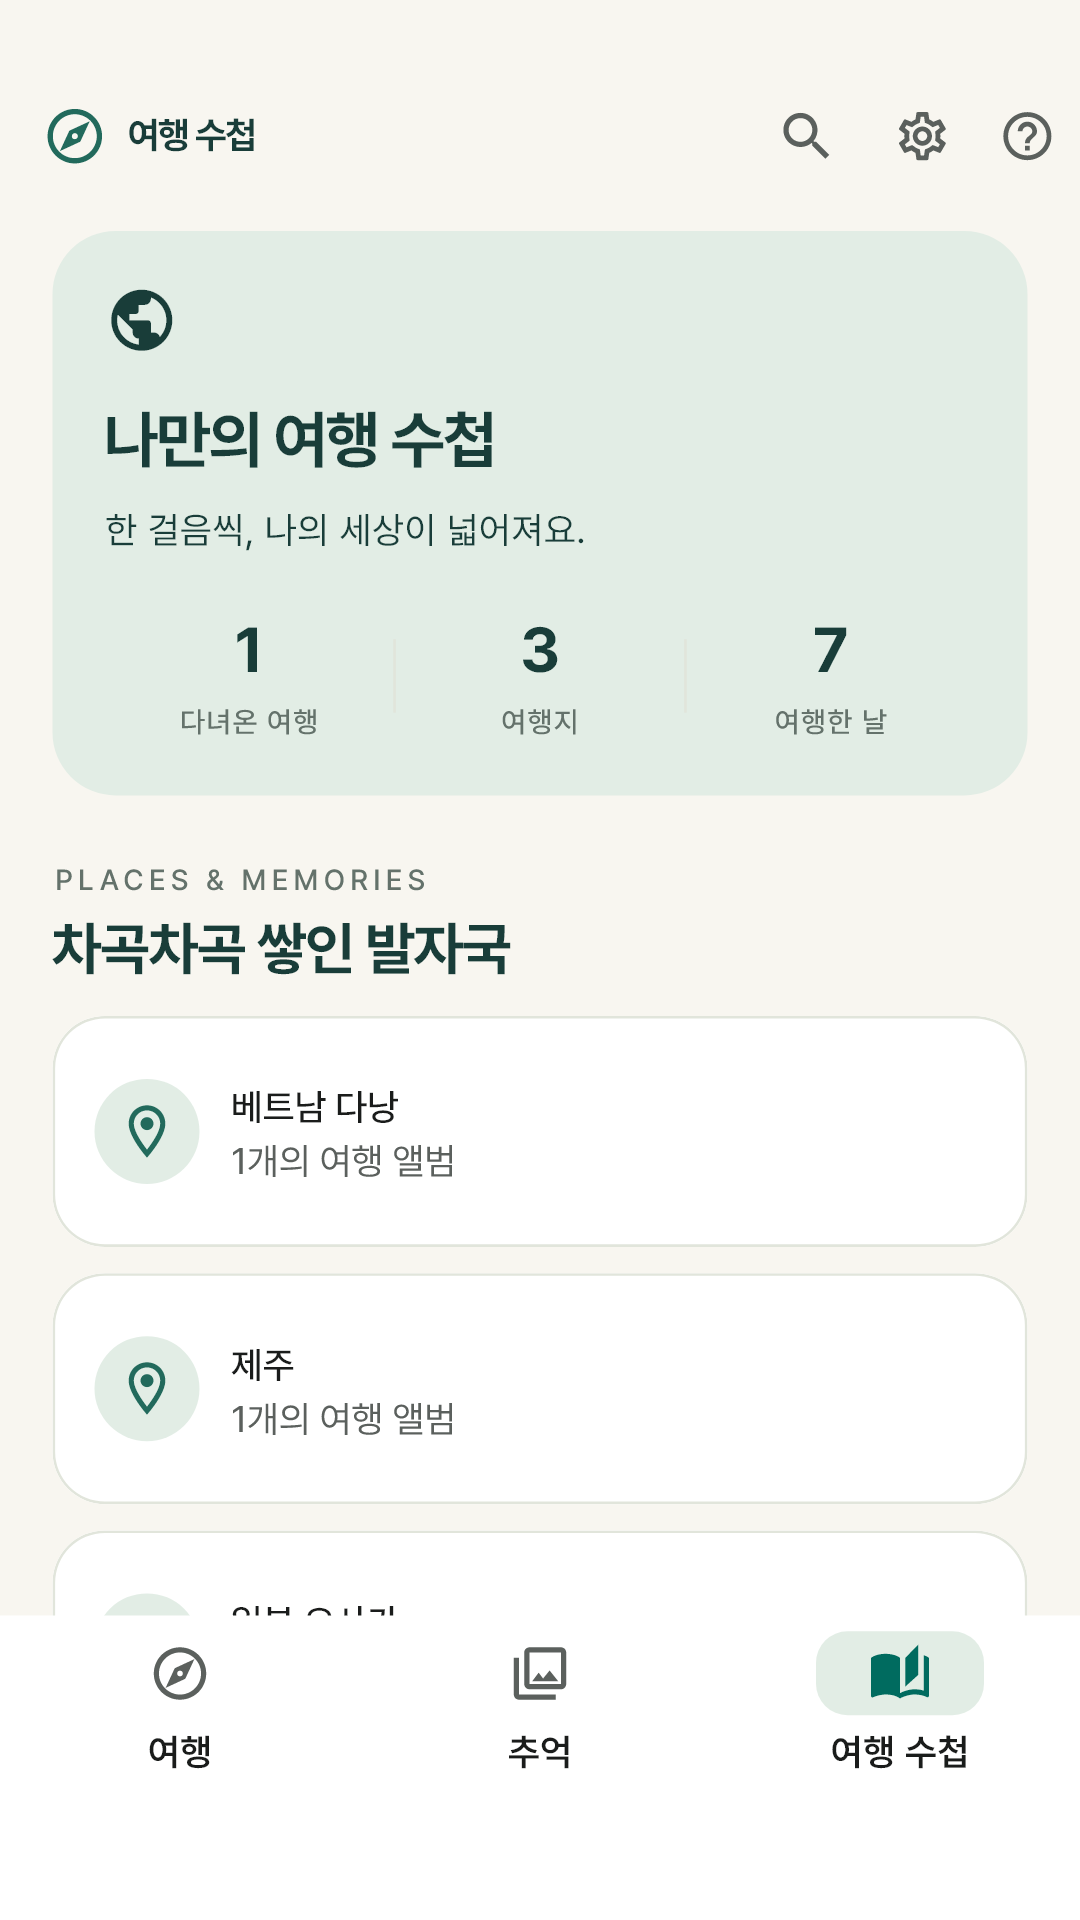
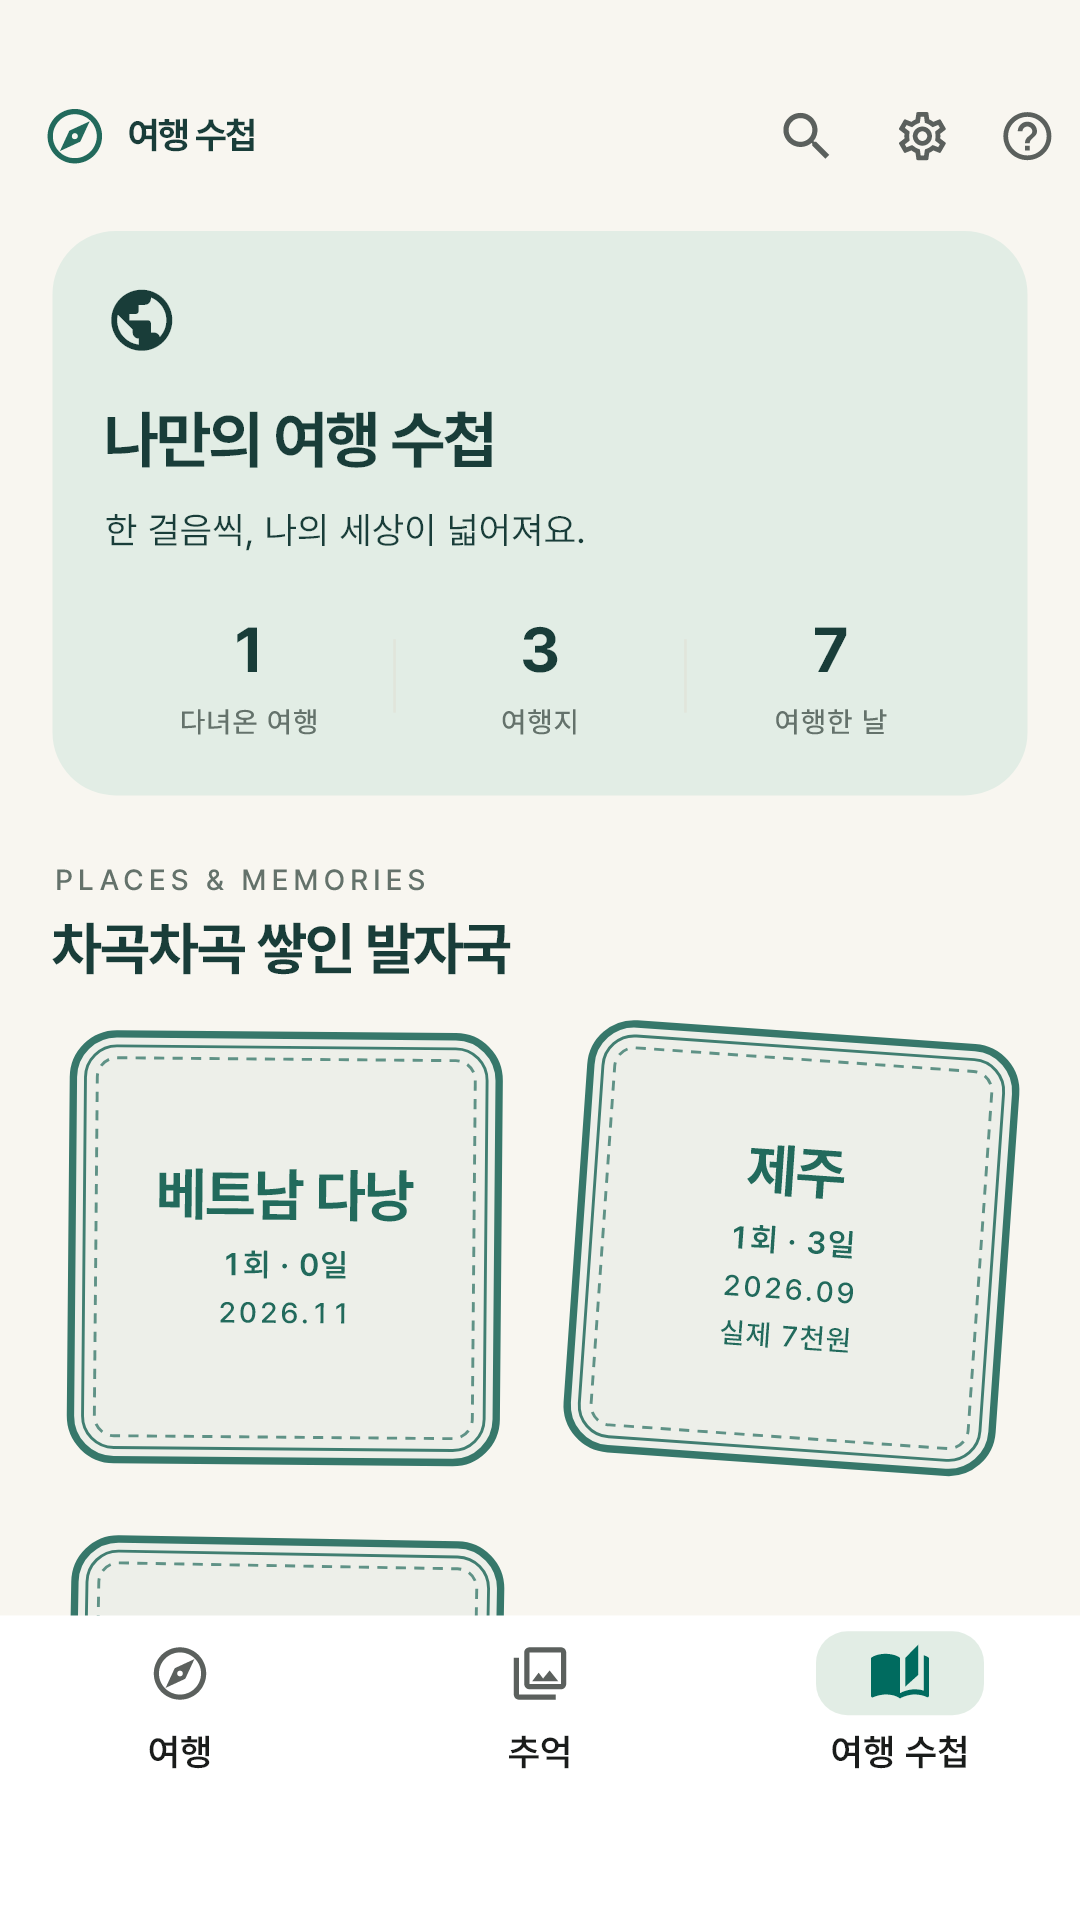
여행 기록: 새 기능 소개·방침 갱신, 스크린샷 02·03·04·05·09 교체

Changed region(s): [[0.0611, 0.5312, 0.4889, 0.8438], [0.5194, 0.5312, 0.9472, 0.7812], [0.6722, 0.5938, 0.7944, 0.7188]]

diff --git a/travel_log/index.html b/travel_log/index.html
@@ -73,26 +73,33 @@
 <h2>이런 걸 할 수 있어요</h2>
 <ul>
   <li><strong>여행이 하나의 단위예요</strong> — 홈에 여행 카드가 쌓입니다. 여행지·기간과 함께
-    예정 · 여행 중 · 다녀옴 상태가 붙고, 대표 사진과 기록 수·일정 수가 같이 보여요.
-    기간을 아직 안 정했으면 비워 둬도 됩니다.</li>
+    예정 · 여행 중 · 다녀옴 상태가 붙고, 대표 사진과 떠나기까지 남은 날(D-30)이나 여행 며칠째인지,
+    기록·일정 수, 실제 쓴 돈이 같이 보여요. 기간을 아직 안 정했으면 비워 둬도 됩니다.</li>
   <li><strong>기록</strong> — 맛집·카페·관광지·숙소·쇼핑·체험 중에서 종류를 고르고 이름만 적으면
     끝이에요. 주소·들른 날·별점·메모는 아는 만큼만. 목록 위 칩을 누르면 "맛집만", "숙소만"
-    걸러 볼 수 있습니다.</li>
+    걸러 볼 수 있습니다. 주소를 누르면 지도 앱에서 바로 열리고, 길게 누르면 복사돼요.</li>
   <li><strong>사진은 기록당 10장까지</strong> — 기록을 작성하면서 바로 찍거나 여러 장을 한 번에 골라 담아요.
+    들른 날을 비워 두면 담은 사진의 촬영 날짜로 채워 줘요(사진에서는 날짜만 읽어요).
     앱이 쓰는 건 사본이라 갤러리 원본은 손대지 않고, 사본에서는 촬영 위치 같은 정보를 떼어 냅니다.
     전체 사진 라이브러리 권한을 요청하지 않고 고른 사진만 받아요.</li>
   <li><strong>일정 — 떠나기 전에 하루씩 그려요</strong> — 여행 기간의 모든 날이 "1일차 · 10.03 (토)" 칩으로
     있어요. 날을 고르면 24시간 고리 시간표에 시각이 있는 일정이 분류색 조각으로 놓이고, 조각마다 할 일
     제목과 시각이 이름표로 붙어요. 위에서 아래로 흐르는 타임라인으로도 바꿔 볼 수 있어요. 시작·끝 시각, 분류, 예상 금액·실제 쓴 금액을 적고 기록과 연결해 두면 어디였는지
-    같이 보입니다.</li>
+    같이 보입니다. 시작 시각이 있는 일정에는 정시·15분·30분·1시간 전 알림을 걸 수 있고, 알림을 누르면
+    그날 일정이 바로 열려요.</li>
   <li><strong>일정표 보내기</strong> — 일행에게 계획을 보낼 땐 모든 날의 일정을 글로, 일정이 있는 날은
     하루 한 장 시간표 그림으로 함께 보내요. 앱이 없어도 볼 수 있고 금액은 빠집니다.</li>
   <li><strong>검색</strong> — 여행 이름·여행지, 기록의 이름·주소·메모, 일정의 할 일·메모를 한 번에
     찾아요. "오사카 라멘"처럼 낱말을 여러 개 적어도 됩니다.</li>
   <li><strong>예산</strong> — 여행마다 통화를 하나 고르고(원·엔·달러 등 13가지) 그 단위 그대로
-    적어요. 환산하지 않으니 인터넷이 필요 없습니다. 예산 대비 실제 지출을 막대로 보여주고,
-    분류별·날짜별 합계가 따라옵니다. 금액 칸에는 적는 대로 천 단위 쉼표가 붙고, 옵션에서
+    적어요. 환산하지 않으니 인터넷이 필요 없습니다. 쓴 돈과 남은 예산을 막대로 견주고, 분류별 지출은
+    도넛 차트로, 날짜별 지출은 막대로 보여 줘요. 분류마다 예상 금액이 같이 적혀 계획보다 얼마나 더 썼는지
+    보이고, 떠나기 전이나 여행 중에는 남은 예산을 남은 날로 나눠 하루에 쓸 수 있는 금액을 알려 줘요.
+    계획에 없던 지출은 [지출 적기]로 바로 적고, 경비는 CSV 파일로 내보내 엑셀·구글 시트에서 정산해요.
+    금액 칸에는 적는 대로 천 단위 쉼표가 붙고, 옵션에서
     1원·천원·만원 단위를 골라 보고 적을 수 있어요(저장은 늘 1원 단위).</li>
+  <li><strong>준비물 체크리스트</strong> — 여행마다 [준비] 탭에 떠나기 전 챙길 것을 적고 하나씩 체크해요.
+    여권·환전·충전기처럼 흔한 준비물 12가지를 한 번에 담을 수도 있어요.</li>
   <li><strong>공유</strong> — 여행 전체로, 또는 "맛집만" 골라 글과 사진을 함께 보냅니다.
     일반 공유는 금액을 빼고, 앱 파일로 보내면 사진과 기록을 함께 담아 갑니다. 받는 쪽에서
     파일을 누르면 앱이 열려요.</li>
@@ -102,7 +109,8 @@
 
 <div class="box"><strong>사진이 없어도 예쁜 여행 앨범</strong><br>
 바다·산·도시·숲·노을 다섯 가지 그림 표지를 골라요. 추억 탭에서는 모든 여행의 사진과 이야기를
-함께 보고, 여행 수첩에는 여행지와 여행한 날이 차곡차곡 쌓여요. 검색과 상태 필터로 다시 찾기도 쉬워요.</div>
+함께 보고, 여행 수첩에는 여행지마다 도장이 찍혀 몇 번 갔는지·며칠 여행했는지가 차곡차곡 쌓여요.
+검색과 상태 필터로 다시 찾기도 쉬워요.</div>
 
 <h2>앱 안에서는 이렇게 보여요</h2>
 <!-- 스크린샷은 store/screenshots/의 사본이다. 화면이 바뀌면 골든 테스트로 다시 만들어
@@ -111,15 +119,15 @@
 <section class="shots">
 <figure><img src="shots/01-home.png" alt="예정·여행 중·다녀옴 상태가 붙은 여행 카드 목록" loading="lazy"><figcaption>지금 무엇이 진행 중인지 한눈에.</figcaption></figure>
 <figure><img src="shots/02-places.png" alt="종류 칩으로 거르는 맛집·관광지·숙소 기록 목록" loading="lazy"><figcaption>맛집만, 숙소만 걸러 보기.</figcaption></figure>
-<figure><img src="shots/03-place.png" alt="사진 줄과 별점·주소·메모가 있는 기록 상세 화면" loading="lazy"><figcaption>사진과 함께 남기는 한마디.</figcaption></figure>
-<figure><img src="shots/04-schedule.png" alt="하루를 24시간 고리로 그린 시간표와 조각마다 제목 이름표가 붙은 그날의 일정 목록" loading="lazy"><figcaption>하루를 고리 시간표로, 일행에게는 그림으로.</figcaption></figure>
-<figure><img src="shots/05-budget.png" alt="예산 대비 지출과 분류별·날짜별 합계" loading="lazy"><figcaption>계획한 돈과 실제로 쓴 돈.</figcaption></figure>
+<figure><img src="shots/03-place.png" alt="사진 줄과 별점, 누르면 지도 앱으로 여는 주소, 메모가 있는 기록 상세 화면" loading="lazy"><figcaption>사진과 함께 남기는 한마디.</figcaption></figure>
+<figure><img src="shots/04-schedule.png" alt="날짜 칩과 하루를 24시간 고리로 그린 시간표, 조각마다 붙은 할 일 이름표" loading="lazy"><figcaption>하루를 고리 시간표로, 일행에게는 그림으로.</figcaption></figure>
+<figure><img src="shots/05-budget.png" alt="분류별 실제 지출을 나눈 도넛 차트와 분류마다 예상 대비 실제 금액" loading="lazy"><figcaption>계획한 돈과 실제로 쓴 돈.</figcaption></figure>
 <figure><img src="shots/06-share.png" alt="여행 전체 또는 종류를 골라 글과 사진이나 앱 파일로 보내는 공유 시트" loading="lazy"><figcaption>사진도 함께 친구에게.</figcaption></figure>
 <figure><img src="shots/07-home-dark.png" alt="어두운 화면의 여행 목록" loading="lazy"><figcaption>어두운 화면도 됩니다.</figcaption></figure>
 </section>
 <section class="shots">
 <figure><img src="shots/08-memories.png" alt="여행의 사진과 이야기를 모아 보는 추억 탭" loading="lazy"><figcaption>오래 기억하고 싶은 순간들.</figcaption></figure>
-<figure><img src="shots/09-passport.png" alt="여행지와 여행한 날을 정리한 여행 수첩" loading="lazy"><figcaption>차곡차곡 쌓인 나만의 발자국.</figcaption></figure>
+<figure><img src="shots/09-passport.png" alt="다녀온 여행·여행지·여행한 날과 여행지마다 찍힌 도장을 모은 여행 수첩" loading="lazy"><figcaption>여행지마다 찍는 나만의 도장.</figcaption></figure>
 </section>
 <p>화면에 보이는 여행·가게 이름과 금액은 기능을 설명하기 위한 예시이고, 사진 자리에 있는 것은
 그림입니다.</p>

diff --git a/travel_log/privacy.html b/travel_log/privacy.html
@@ -2,10 +2,11 @@
 <html lang="ko"><head><meta charset="utf-8"><meta name="viewport" content="width=device-width,initial-scale=1"><title>앱이소 여행 기록 개인정보처리방침</title>
 <style>body{font:16px/1.8 system-ui,sans-serif;max-width:720px;margin:auto;padding:40px 24px;color:#20312b;background:#fafaf8}h1{font-size:28px}h2{font-size:20px;margin-top:32px}a{color:#00796b}</style></head><body>
 <h1>앱이소 여행 기록 개인정보처리방침</h1><p>시행일: 2026년 9월 18일</p>
-<h2>1. 기기에 저장하는 정보</h2><p>사용자가 입력한 여행 이름, 여행지, 기간, 통화, 예산, 메모와 여행 안의 기록(장소 종류·이름·주소·메모·별점·방문일·사진), 일정(날짜·시각·제목·메모·분류·예상 금액·실제 금액), 화면 설정을 앱 전용 저장소에 보관합니다. 개발자 서버가 없으며 입력한 내용을 개발자에게 전송하지 않습니다. 가입, 광고, 결제, 분석·크래시 수집 SDK를 사용하지 않습니다.</p>
-<h2>2. 인터넷 사용</h2><p>이 앱은 네트워크 권한을 요청하지 않으며 인터넷을 사용하지 않습니다. 모든 기능은 인터넷 없이 동작합니다. 개인정보처리방침·앱이소 소개 페이지·문의 메일은 사용자가 누를 때 브라우저 또는 메일 앱에 넘겨 엽니다.</p>
-<h2>3. 사진</h2><p>사용자가 시스템 카메라로 촬영하거나 시스템 사진 선택기로 고른 사진만 기록당 최대 10장 보관합니다. 갤러리 원본을 변경하거나 삭제하지 않으며, 전체 사진 라이브러리를 읽는 권한을 요청하지 않습니다. 저장하는 사본에서는 촬영 위치·기기 정보 같은 메타데이터를 제거합니다. 작성 중 사진 선택기로 이동할 때는 앱 종료에 대비해 글과 첨부 사진을 임시 보관하며, 복귀 후 임시 파일을 삭제합니다. 사용자가 기록을 저장하기 전에는 기존 기록에 반영하지 않습니다.</p>
-<h2>4. 공유</h2><p>공유는 사용자가 공유 버튼을 눌렀을 때만 일어나며, 사용자가 고른 여행 전체 또는 종류별 기록을 텍스트와 사진, 또는 사진을 담은 앱 파일로 만들어 사용자가 선택한 앱(메신저, 메일 등)에 넘깁니다. 공유 내용에 사용자의 현재 위치나 기기 정보는 담지 않습니다. 다른 사람이 보낸 앱 파일은 사용자가 확인한 뒤에만 기기 안에 추가합니다.</p>
-<h2>5. 백업과 삭제</h2><p>여행 기록은 사용자 본인의 구글 계정 자동 백업에 포함될 수 있으며, 사진은 자동 클라우드 백업에서 제외됩니다. Android 기기 간 직접 이전에는 사진도 포함될 수 있습니다. 사진까지 옮기려면 앱 안의 백업 파일 내보내기·복원을 사용하며, 백업 파일은 사용자가 고른 곳에만 저장되고 개발자에게 전송되지 않습니다. 여행을 지우면 안에 든 기록·일정·사진 사본도 삭제합니다. 앱을 제거하거나 데이터를 삭제하면 기록과 사진도 사라질 수 있습니다.</p>
-<h2>6. 외부 링크와 앱</h2><p>소개 페이지·온라인 개인정보처리방침·문의 메일은 브라우저 또는 메일 앱을 사용자가 누를 때 엽니다. 외부 서비스에는 해당 서비스의 정책이 적용됩니다.</p>
-<h2>7. 문의</h2><p><a href="mailto:appisoLabs@gmail.com">appisoLabs@gmail.com</a></p></body></html>
+<h2>1. 기기에 저장하는 정보</h2><p>사용자가 입력한 여행 이름, 여행지, 기간, 통화, 예산, 메모와 여행 안의 기록(장소 종류·이름·주소·메모·별점·방문일·사진), 일정(날짜·시각·알림·제목·메모·분류·예상 금액·실제 금액), 준비물 목록(항목·챙김 여부), 화면 설정을 앱 전용 저장소에 보관합니다. 개발자 서버가 없으며 입력한 내용을 개발자에게 전송하지 않습니다. 가입, 광고, 결제, 분석·크래시 수집 SDK를 사용하지 않습니다.</p>
+<h2>2. 인터넷 사용</h2><p>이 앱은 네트워크 권한을 요청하지 않으며 인터넷을 사용하지 않습니다. 모든 기능은 인터넷 없이 동작합니다. 개인정보처리방침·앱이소 소개 페이지·문의 메일은 사용자가 누를 때 브라우저 또는 메일 앱에 넘겨 엽니다. 기록의 주소는 사용자가 누를 때 지도 앱에 넘겨 엽니다.</p>
+<h2>3. 알림과 권한</h2><p>사용자가 시작 시각을 정한 일정에 알림(정시·15분 전·30분 전·1시간 전)을 고르면 Android 기기 안에서 그 시각의 알림을 예약합니다. 알림에는 일정의 할 일과 시각, 여행 이름이 표시되며, 서버를 거치지 않고 알림 내용을 기기 밖으로 전송하지 않습니다. 사용자에게 요청하는 권한은 알림 표시 권한(POST_NOTIFICATIONS) 하나이며, 사용자가 일정에 알림을 처음 고를 때만 요청합니다. 거절해도 알림을 제외한 모든 기능을 쓸 수 있습니다. 이 밖에 기기를 다시 켠 뒤 알림 예약을 복원하기 위한 권한(RECEIVE_BOOT_COMPLETED)과 알림 진동 권한(VIBRATE)을 사용합니다. 정확한 알람 권한은 요청하지 않아 알림이 몇 분 늦게 올 수 있으며, 위치·연락처·카메라·마이크 권한은 요청하지 않습니다.</p>
+<h2>4. 사진</h2><p>사용자가 시스템 카메라로 촬영하거나 시스템 사진 선택기로 고른 사진만 기록당 최대 10장 보관합니다. 갤러리 원본을 변경하거나 삭제하지 않으며, 전체 사진 라이브러리를 읽는 권한을 요청하지 않습니다. 사진을 담을 때는 원본에서 촬영 날짜만 읽어 비어 있는 방문일을 채우는 데 쓰며, 촬영 위치·기기 정보는 사용하거나 저장하지 않습니다. 저장하는 사본에서는 촬영 위치·기기 정보 같은 메타데이터를 제거합니다. 작성 중 사진 선택기로 이동할 때는 앱 종료에 대비해 글과 첨부 사진을 임시 보관하며, 복귀 후 임시 파일을 삭제합니다. 사용자가 기록을 저장하기 전에는 기존 기록에 반영하지 않습니다.</p>
+<h2>5. 공유</h2><p>공유는 사용자가 공유 버튼을 눌렀을 때만 일어나며, 사용자가 고른 여행 전체 또는 종류별 기록을 텍스트와 사진, 또는 사진을 담은 앱 파일로 만들어 사용자가 선택한 앱(메신저, 메일 등)에 넘깁니다. 예산 탭의 경비 내보내기(CSV)도 사용자가 누를 때만 그 여행의 일정과 예상·실제 금액을 표 파일로 만들어 같은 방식으로 넘깁니다. 공유 내용에 사용자의 현재 위치나 기기 정보는 담지 않습니다. 다른 사람이 보낸 앱 파일은 사용자가 확인한 뒤에만 기기 안에 추가합니다.</p>
+<h2>6. 백업과 삭제</h2><p>여행 기록은 사용자 본인의 구글 계정 자동 백업에 포함될 수 있으며, 사진은 자동 클라우드 백업에서 제외됩니다. Android 기기 간 직접 이전에는 사진도 포함될 수 있습니다. 사진까지 옮기려면 앱 안의 백업 파일 내보내기·복원을 사용하며, 백업 파일은 사용자가 고른 곳에만 저장되고 개발자에게 전송되지 않습니다. 여행을 지우면 안에 든 기록·일정·준비물·사진 사본도 삭제합니다. 앱을 제거하거나 데이터를 삭제하면 기록과 사진도 사라질 수 있습니다.</p>
+<h2>7. 외부 링크와 앱</h2><p>소개 페이지·온라인 개인정보처리방침·문의 메일은 브라우저 또는 메일 앱을 사용자가 누를 때 엽니다. 외부 서비스에는 해당 서비스의 정책이 적용됩니다.</p>
+<h2>8. 문의</h2><p><a href="mailto:appisoLabs@gmail.com">appisoLabs@gmail.com</a></p></body></html>
